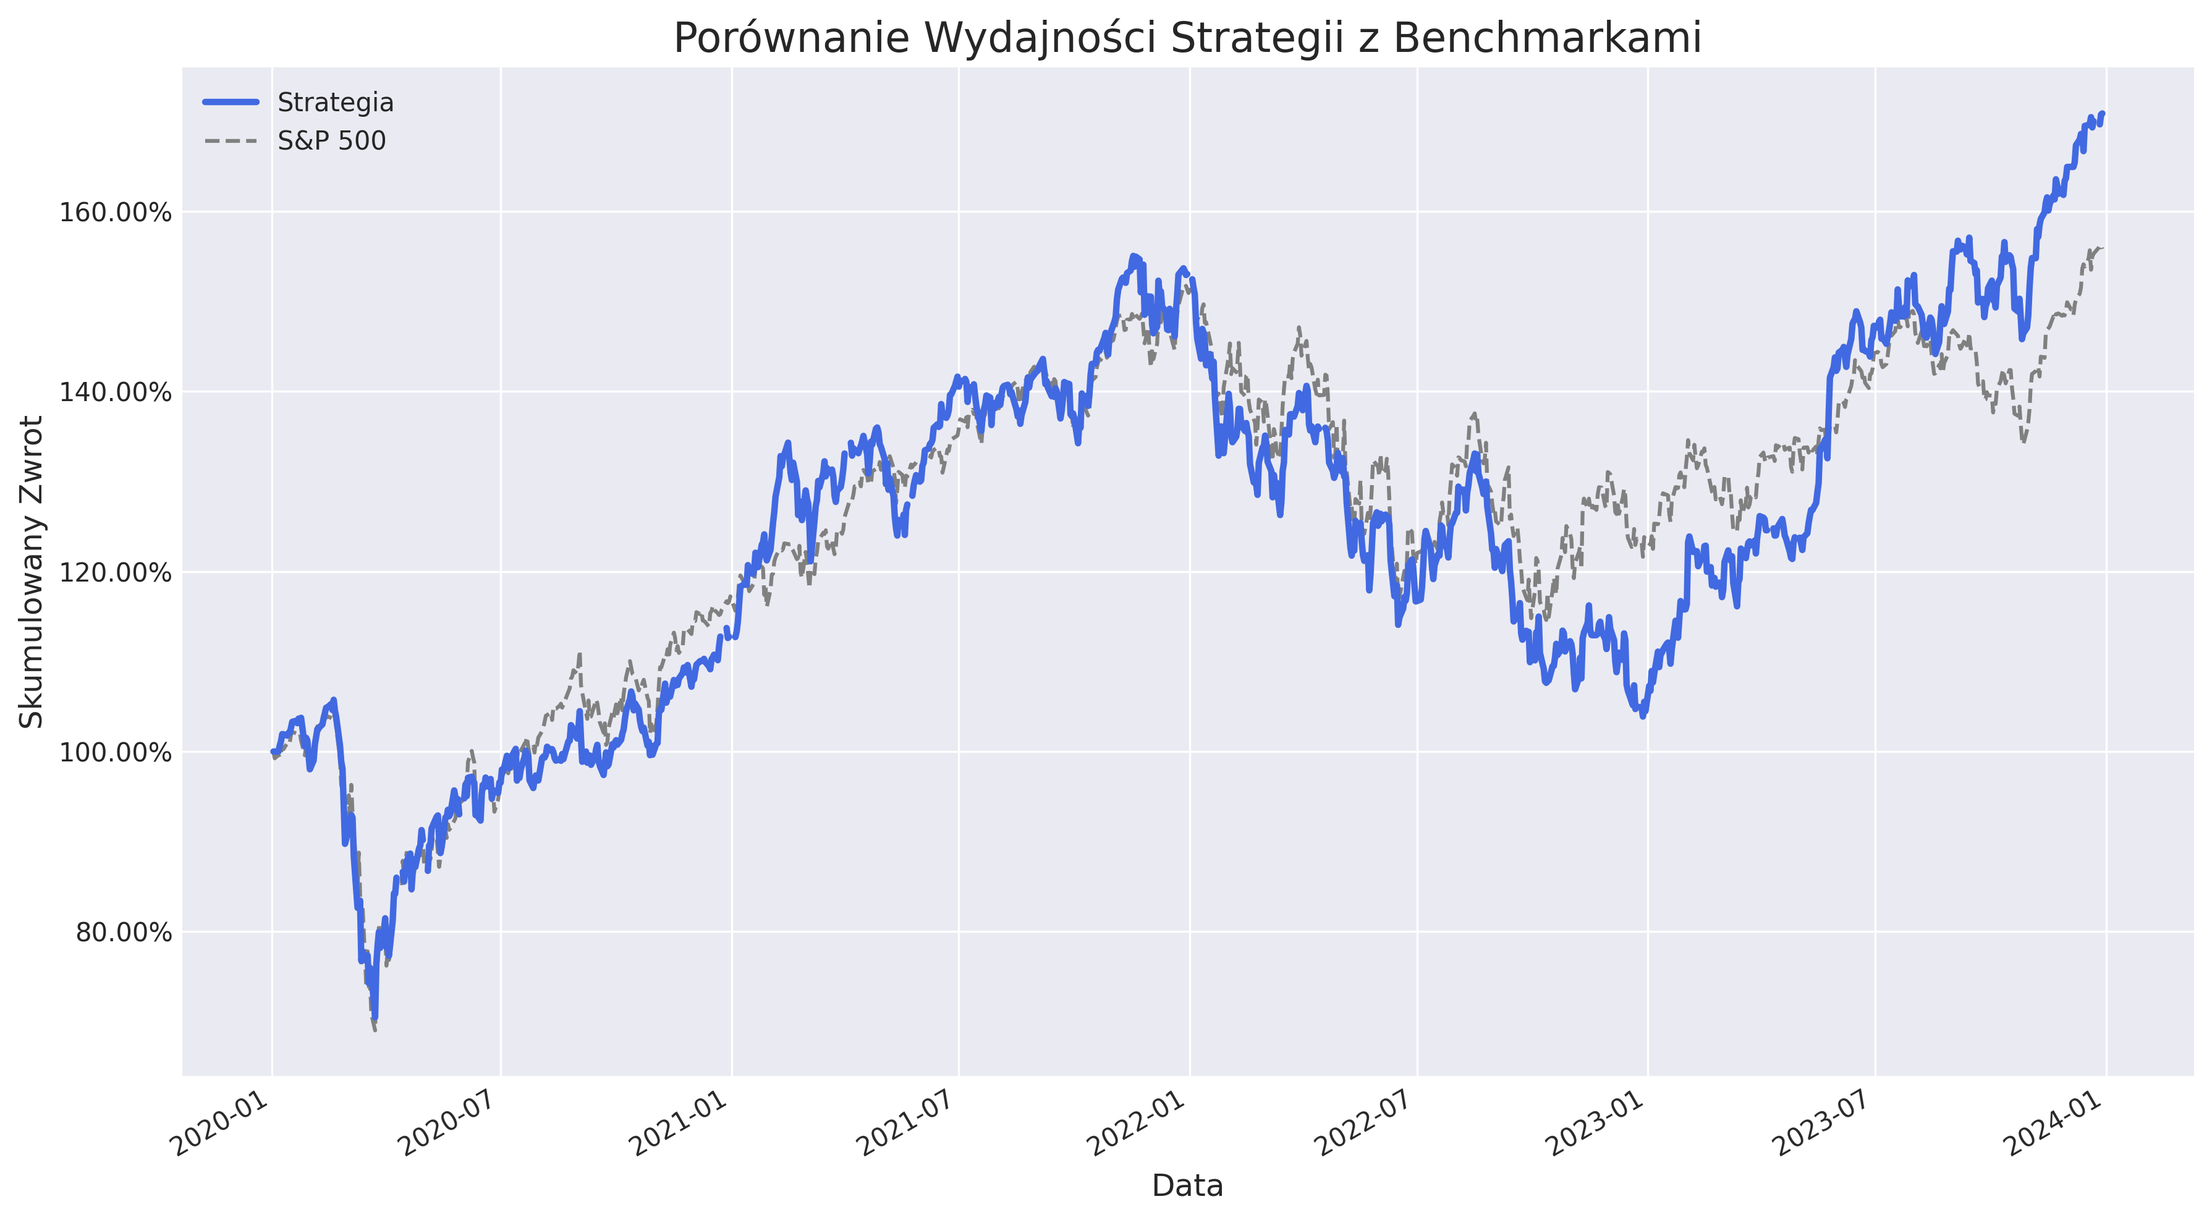
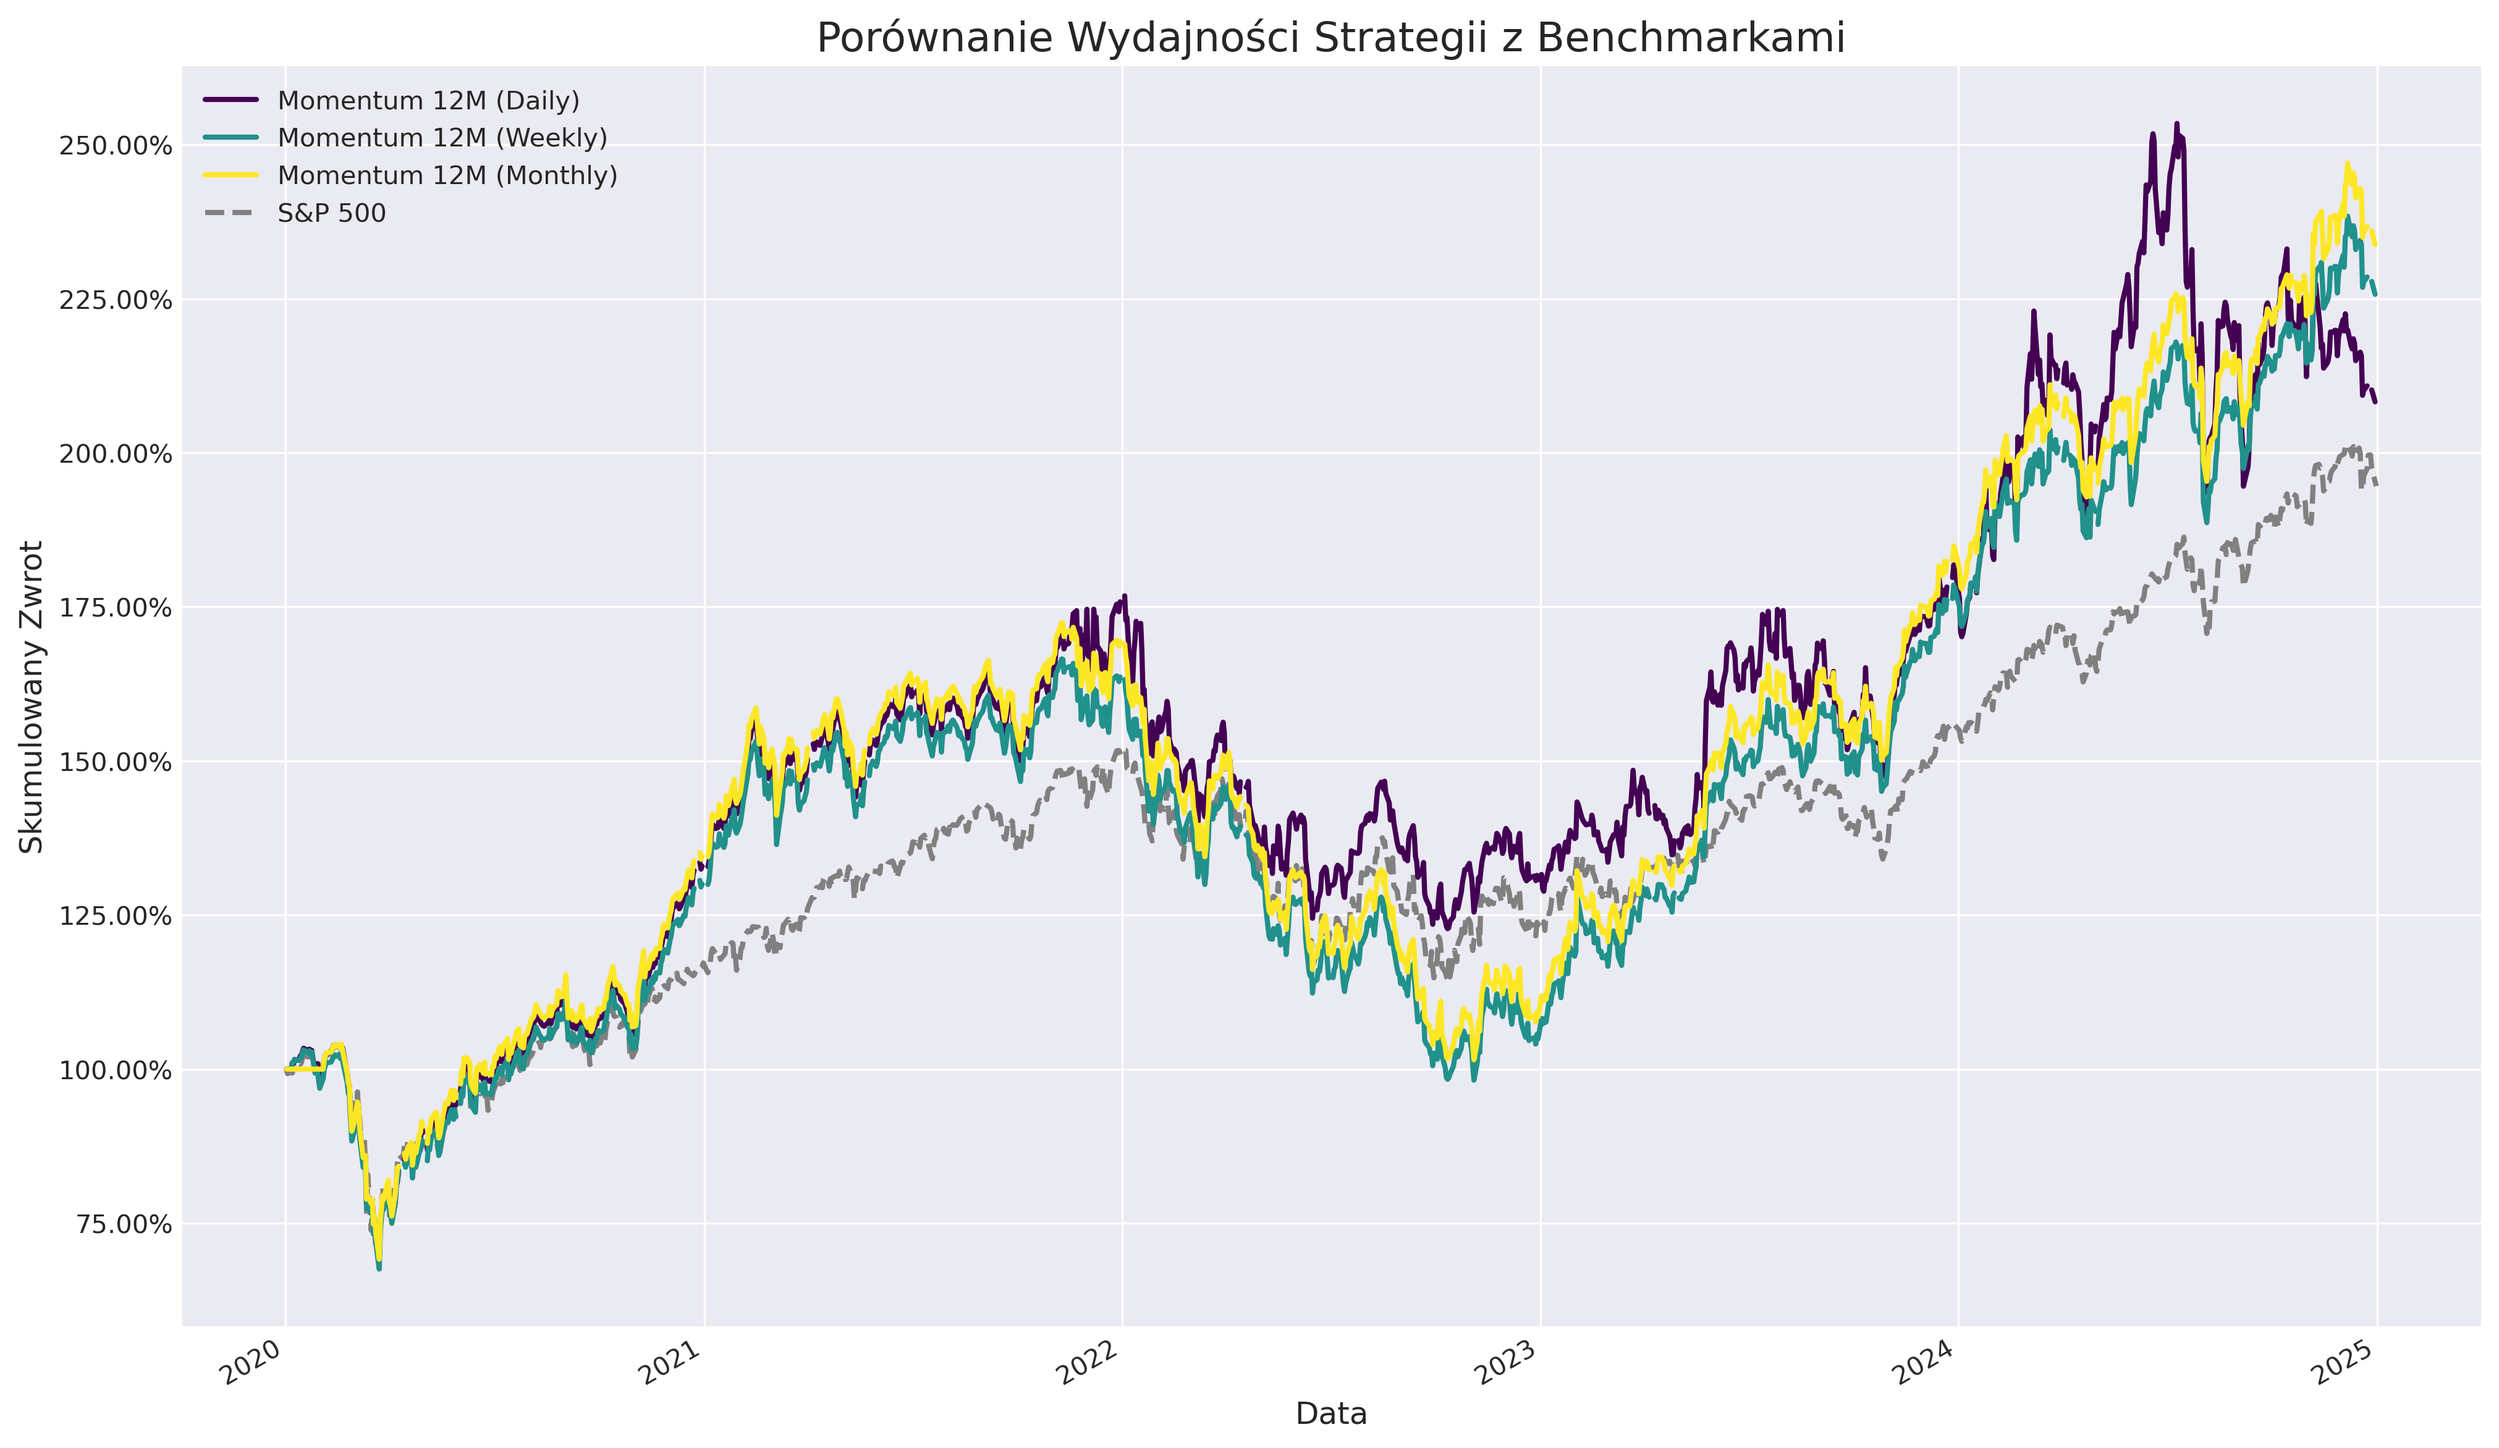
feat: Compare multiple momentum strategies and add currency conversion
This commit refactors the backtesting script to support the comparison of multiple momentum strategy variations and ensures currency consistency.

Key changes:
- `main.py` is updated to loop through various momentum strategy configurations (6 and 12-month lookbacks with daily, weekly, and monthly frequencies) and run a backtest for each.
- `src/data_provider.py` is significantly enhanced to handle currency conversion. It now automatically identifies EUR-based tickers (ending in '.DE') and converts their prices to USD for accurate comparison against the S&P 500 benchmark. The data fetching logic was also made more robust to handle different data formats from the yfinance API.
- `src/analysis.py` is modified to accept and plot multiple strategy equity curves on a single chart, allowing for direct performance comparison.

diff --git a/main.py b/main.py
@@ -2,86 +2,86 @@
 """
 Główny plik uruchomieniowy dla aplikacji do backtestingu.
 
-Ten skrypt konfiguruje i uruchamia symulację strategii inwestycyjnej.
+Ten skrypt konfiguruje i uruchamia symulację wielu strategii inwestycyjnych
+i porównuje ich wyniki na jednym wykresie.
 """
+import itertools
 from src.data_provider import get_data
 from src.portfolio import Portfolio
-from src.strategy import BuyAndHoldStrategy, MonthlyInvestmentStrategy, MomentumStrategy
+from src.strategy import MomentumStrategy
 from src.engine import BacktestingEngine
 from src.analysis import plot_performance
 
 def run_simulation():
     """
-    Konfiguruje i uruchamia pełną symulację backtestingu.
+    Konfiguruje i uruchamia pełną symulację backtestingu dla wielu strategii.
     """
     # =========================================================================
     # --- 1. KONFIGURACJA SYMULACJI ---
     # =========================================================================
 
-    # Wybierz strategię: 'BuyAndHold', 'MonthlyInvestment', 'Momentum'
-    STRATEGY_CHOICE = 'Momentum'
-
     # Parametry ogólne
     INITIAL_CASH = 10000.0
-    # Data początkowa musi uwzględniać okres 'lookback' dla strategii Momentum
+    # Data początkowa musi uwzględniać najdłuższy okres 'lookback' (12 miesięcy)
     START_DATE = '2020-01-01'
-    END_DATE = '2023-12-31'
+    END_DATE = '2025-01-01'
 
-    # Definicja benchmarków. Klucz to nazwa, wartość to ticker.
+    # Definicja benchmarku
     BENCHMARKS = {'S&P 500': 'SPY'}
 
-    # Parametry dla strategii 'BuyAndHold'
-    B_H_TICKERS = ['AAPL', 'MSFT']
-
-    # Parametry dla strategii 'MonthlyInvestment'
-    M_I_TICKER = 'SPY'
-    M_I_AMOUNT = 500.0
-
-    # Parametry dla strategii 'Momentum'
+    # Tickers dla strategii Momentum
     MOMENTUM_TICKERS = ['SXR8.DE', 'IS3N.DE', 'VVSM.DE', 'XAIX.DE']
-    MOMENTUM_LOOKBACK_MONTHS = 6 # Wariant 1: 6 miesięcy
-    MOMENTUM_FREQUENCY = 'weekly' # 'daily', 'weekly', or 'monthly'
+    # Warianty strategii do przetestowania
+    lookback_options = [12]
+    frequency_options = ['daily', 'weekly', 'monthly']
+    
+    # Generowanie wszystkich kombinacji strategii
+    strategy_configs = []
+    for lookback, frequency in itertools.product(lookback_options, frequency_options):
+        strategy_configs.append({
+            'lookback_months': lookback,
+            'rebalance_frequency': frequency,
+            'name': f"Momentum {lookback}M ({frequency.capitalize()})"
+        })
 
     # =========================================================================
-    # --- 2. PRZYGOTOWANIE DO SYMULACJI ---
+    # --- 2. PRZYGOTOWANIE DANYCH ---
     # =========================================================================
-    print("Inicjalizacja symulacji...")
+    print("Pobieranie i przygotowywanie danych rynkowych...")
+    # Pobierz dane dla wszystkich tickerów strategii i benchmarku
+    all_tickers = list(set(MOMENTUM_TICKERS + list(BENCHMARKS.values())))
+    market_data = get_data(all_tickers, START_DATE, END_DATE)
 
-    portfolio = Portfolio(initial_cash=INITIAL_CASH)
+    # =========================================================================
+    # --- 3. URUCHOMIENIE BACKTESTINGU DLA KAŻDEJ STRATEGII ---
+    # =========================================================================
+    strategy_curves = {}
 
-    if STRATEGY_CHOICE == 'BuyAndHold':
-        strategy = BuyAndHoldStrategy(tickers=B_H_TICKERS, initial_investment_per_ticker=INITIAL_CASH / len(B_H_TICKERS))
-        tickers_to_fetch = list(set(B_H_TICKERS + list(BENCHMARKS.values())))
-        print(f"Wybrano strategię: Kup i Trzymaj dla {B_H_TICKERS}")
-    elif STRATEGY_CHOICE == 'MonthlyInvestment':
-        strategy = MonthlyInvestmentStrategy(ticker=M_I_TICKER, monthly_investment=M_I_AMOUNT)
-        tickers_to_fetch = list(set([M_I_TICKER] + list(BENCHMARKS.values())))
-        print(f"Wybrano strategię: Comiesięczna inwestycja ${M_I_AMOUNT} w {M_I_TICKER}")
-    elif STRATEGY_CHOICE == 'Momentum':
+    for config in strategy_configs:
+        print(f"\n--- Uruchamianie symulacji dla: {config['name']} ---")
+        
+        # Inicjalizacja dla każdej symulacji
+        portfolio = Portfolio(initial_cash=INITIAL_CASH)
         strategy = MomentumStrategy(
             tickers=MOMENTUM_TICKERS,
-            lookback_months=MOMENTUM_LOOKBACK_MONTHS,
-            rebalance_frequency=MOMENTUM_FREQUENCY
+            lookback_months=config['lookback_months'],
+            rebalance_frequency=config['rebalance_frequency']
         )
-        tickers_to_fetch = list(set(MOMENTUM_TICKERS + list(BENCHMARKS.values())))
-        print(f"Wybrano strategię: Momentum {MOMENTUM_LOOKBACK_MONTHS}-miesięczne dla {MOMENTUM_TICKERS} z rebalansowaniem '{MOMENTUM_FREQUENCY}'")
-    else:
-        raise ValueError(f"Nieznana strategia: {STRATEGY_CHOICE}")
-
-    print("Pobieranie danych rynkowych...")
-    market_data = get_data(tickers_to_fetch, START_DATE, END_DATE)
-
-    # =========================================================================
-    # --- 3. URUCHOMIENIE SILNIKA BACKTESTINGU ---
-    # =========================================================================
-    engine = BacktestingEngine(portfolio, strategy, market_data)
-    equity_curve = engine.run_backtest()
+        
+        engine = BacktestingEngine(portfolio, strategy, market_data)
+        equity_curve = engine.run_backtest()
+        
+        if not equity_curve.empty:
+            strategy_curves[config['name']] = equity_curve
+            print(f"Końcowa wartość portfela dla '{config['name']}': ${equity_curve.iloc[-1]:.2f}")
+        else:
+            print(f"Ostrzeżenie: Pusta krzywa kapitału dla strategii {config['name']}.")
 
     # =========================================================================
     # --- 4. ANALIZA I WIZUALIZACJA WYNIKÓW ---
     # =========================================================================
-    print("Analiza wyników...")
-    if not equity_curve.empty:
+    print("\nAnaliza wyników...")
+    if strategy_curves:
         # Przygotowanie danych benchmarku
         benchmarks_curves = {}
         for name, ticker in BENCHMARKS.items():
@@ -89,20 +89,15 @@ def run_simulation():
             if benchmark_col in market_data.columns:
                 curve = market_data[benchmark_col].dropna()
                 if not curve.empty:
+                    # Normalizacja wartości benchmarku do początkowego kapitału
                     benchmarks_curves[name] = curve * (INITIAL_CASH / curve.iloc[0])
+                    print(f"Końcowa wartość benchmarku '{name}': ${benchmarks_curves[name].iloc[-1]:.2f}")
 
-        # Generowanie wykresu
-        if benchmarks_curves:
-            plot_performance(equity_curve, benchmarks_curves)
-
-        print("\n--- Podsumowanie ---")
-        print(f"Początkowa wartość portfela: ${INITIAL_CASH:.2f}")
-        print(f"Końcowa wartość portfela: ${equity_curve.iloc[-1]:.2f}")
-        for name, curve in benchmarks_curves.items():
-             print(f"Końcowa wartość benchmarku '{name}': ${curve.iloc[-1]:.2f}")
+        # Generowanie wykresu (zostanie dostosowane w kolejnym kroku)
+        plot_performance(strategy_curves, benchmarks_curves)
 
     else:
-        print("Błąd: Equity curve jest pusta. Nie można przeanalizować wyników.")
+        print("Błąd: Nie udało się wygenerować żadnej krzywej kapitału.")
 
     print("\nSymulacja zakończona pomyślnie.")
 

diff --git a/src/data_provider.py b/src/data_provider.py
@@ -15,39 +15,48 @@ CACHE_DIR = 'data'
 def get_data(tickers: List[str], start_date: str, end_date: str) -> pd.DataFrame:
     """
     Pobiera dane historyczne dla podanych tickerów w zadanym okresie.
-    Wykorzystuje mechanizm cache'owania, aby unikać wielokrotnego pobierania tych samych danych.
-
-    Args:
-        tickers (List[str]): Lista tickerów do pobrania.
-        start_date (str): Data początkowa w formacie 'YYYY-MM-DD'.
-        end_date (str): Data końcowa w formacie 'YYYY-MM-DD'.
-
-    Returns:
-        pd.DataFrame: Ramka danych zawierająca historyczne ceny (OHLC) i wolumen.
+    Ta wersja jest bardziej odporna na problemy z formatowaniem danych z yfinance.
     """
-    if not os.path.exists(CACHE_DIR):
-        os.makedirs(CACHE_DIR)
+    print("Pobieranie danych rynkowych...")
+    
+    # Pobieramy dane dla strategii i benchmarku
+    data = yf.download(tickers, start=start_date, end=end_date)
+    if data.empty:
+        raise ConnectionError(f"Nie udało się pobrać danych dla tickerów: {tickers}")
 
-    # Tworzenie unikalnej nazwy pliku dla cache'u
-    tickers_str = '_'.join(sorted(tickers))
-    filename = f"{tickers_str}_{start_date}_{end_date}.csv"
-    filepath = os.path.join(CACHE_DIR, filename)
-
-    if os.path.exists(filepath):
-        print(f"Wczytywanie danych z cache: {filepath}")
-        data = pd.read_csv(filepath, header=[0, 1], index_col=0, parse_dates=True)
-    else:
-        print("Pobieranie danych z yfinance...")
-        data = yf.download(tickers, start=start_date, end=end_date)
-        if not data.empty:
-            # Zapisywanie danych do pliku CSV
-            data.to_csv(filepath)
-            print(f"Zapisano dane w cache: {filepath}")
-        else:
-            print(f"Nie udało się pobrać danych dla tickerów: {tickers}")
-
-    # Konwersja nazw kolumn na stringi, jeśli to konieczne
+    # Konwersja nazw kolumn z MultiIndex na pojedyncze stringi
     if isinstance(data.columns, pd.MultiIndex):
         data.columns = data.columns.map(lambda x: f"{x[0]}_{x[1]}")
+
+    # --- KONWERSJA WALUT ---
+    eur_tickers = [t for t in tickers if t.endswith('.DE')]
+    if eur_tickers:
+        print("Wykryto tickery w EUR. Rozpoczynanie konwersji na USD...")
+        
+        eur_usd_data = yf.download('EURUSD=X', start=start_date, end=end_date, progress=False)
+        if eur_usd_data.empty:
+            raise ConnectionError("Nie udało się pobrać danych kursu walutowego EUR/USD.")
+        
+        # Wyodrębnienie serii 'Close' i upewnienie się, że jest to seria (Series)
+        eur_usd_series = eur_usd_data['Close']
+        if isinstance(eur_usd_series, pd.DataFrame):
+            # Jeśli nadal jest to DataFrame (np. z powodu formatowania yfinance), wybierz pierwszą kolumnę
+            eur_usd_series = eur_usd_series.iloc[:, 0]
+        
+        # Dopasowanie indeksu i wypełnienie brakujących danych
+        eur_usd_series = eur_usd_series.reindex(data.index).ffill().bfill()
+        
+        # Ostateczne sprawdzenie, czy nie ma NaN
+        if eur_usd_series.isnull().any():
+            raise ValueError("Seria kursów walutowych wciąż zawiera wartości NaN po przetworzeniu.")
+
+        # Konwersja cen
+        for ticker in eur_tickers:
+            for col_type in ['Open', 'High', 'Low', 'Close']:
+                col_name = f'{col_type}_{ticker}'
+                if col_name in data.columns:
+                    data[col_name] = data[col_name] * eur_usd_series
+        
+        print("Konwersja walut zakończona.")
 
     return data

diff --git a/src/analysis.py b/src/analysis.py
@@ -9,31 +9,36 @@ import matplotlib.pyplot as plt
 
 from typing import Dict
 
-def plot_performance(equity_curve: pd.Series, benchmarks: Dict[str, pd.Series], output_filename: str = 'performance_chart.png'):
+def plot_performance(strategy_curves: Dict[str, pd.Series], benchmarks: Dict[str, pd.Series], output_filename: str = 'performance_chart.png'):
     """
-    Generuje i zapisuje wykres porównujący wyniki portfela z benchmarkami.
+    Generuje i zapisuje wykres porównujący wyniki wielu strategii z benchmarkami.
 
     Args:
-        equity_curve (pd.Series): Seria czasowa z wartością portfela.
+        strategy_curves (Dict[str, pd.Series]): Słownik z nazwami i seriami czasowymi strategii.
         benchmarks (Dict[str, pd.Series]): Słownik z nazwami i seriami czasowymi benchmarków.
         output_filename (str): Nazwa pliku do zapisu wykresu.
     """
     print(f"Generowanie wykresu wydajności... Zapisywanie do pliku {output_filename}")
 
-    # 1. Normalizacja danych, aby pokazać skumulowany zwrot
-    portfolio_returns = (equity_curve / equity_curve.iloc[0])
-
-    # 2. Tworzenie wykresu
+    # 1. Tworzenie wykresu
     plt.style.use('seaborn-v0_8-darkgrid')
-    fig, ax = plt.subplots(figsize=(14, 8))
+    fig, ax = plt.subplots(figsize=(16, 10))
+    
+    # Paleta kolorów dla strategii
+    colors = plt.cm.get_cmap('viridis', len(strategy_curves))
 
-    ax.plot(portfolio_returns.index, portfolio_returns, label='Strategia', color='royalblue', linewidth=2.5, zorder=10)
+    # 2. Rysowanie krzywych kapitału dla każdej strategii
+    for i, (name, curve) in enumerate(strategy_curves.items()):
+        # Normalizacja danych, aby pokazać skumulowany zwrot
+        normalized_curve = curve / curve.iloc[0]
+        ax.plot(normalized_curve.index, normalized_curve, label=name, color=colors(i), linewidth=2.0, zorder=10)
 
-    # Dodawanie benchmarków do wykresu
-    benchmark_colors = ['gray', 'darkorange', 'green', 'purple']
+    # 3. Dodawanie benchmarków do wykresu
+    benchmark_colors = ['gray', 'darkorange', 'red', 'purple']
     for i, (name, curve) in enumerate(benchmarks.items()):
+        # Normalizacja danych benchmarku
         benchmark_returns = (curve / curve.iloc[0])
-        ax.plot(benchmark_returns.index, benchmark_returns, label=name, color=benchmark_colors[i % len(benchmark_colors)], linestyle='--', linewidth=1.5)
+        ax.plot(benchmark_returns.index, benchmark_returns, label=name, color=benchmark_colors[i % len(benchmark_colors)], linestyle='--', linewidth=2.0)
 
 
     # 3. Ustawienia wykresu

diff --git a/README.md b/README.md
@@ -87,3 +87,4 @@ Następnie, skonfigurować i uruchomić główny skrypt:
 python main.py
 ```
 Wynik symulacji (wykres) zostanie zapisany w pliku `performance_chart.png`.
+ MOMENTUM_TICKERS = ['SXR8.DE', 'IS3N.DE', 'VVSM.DE', 'XAIX', 'CBU3N.MX', "QAU.AX"]
